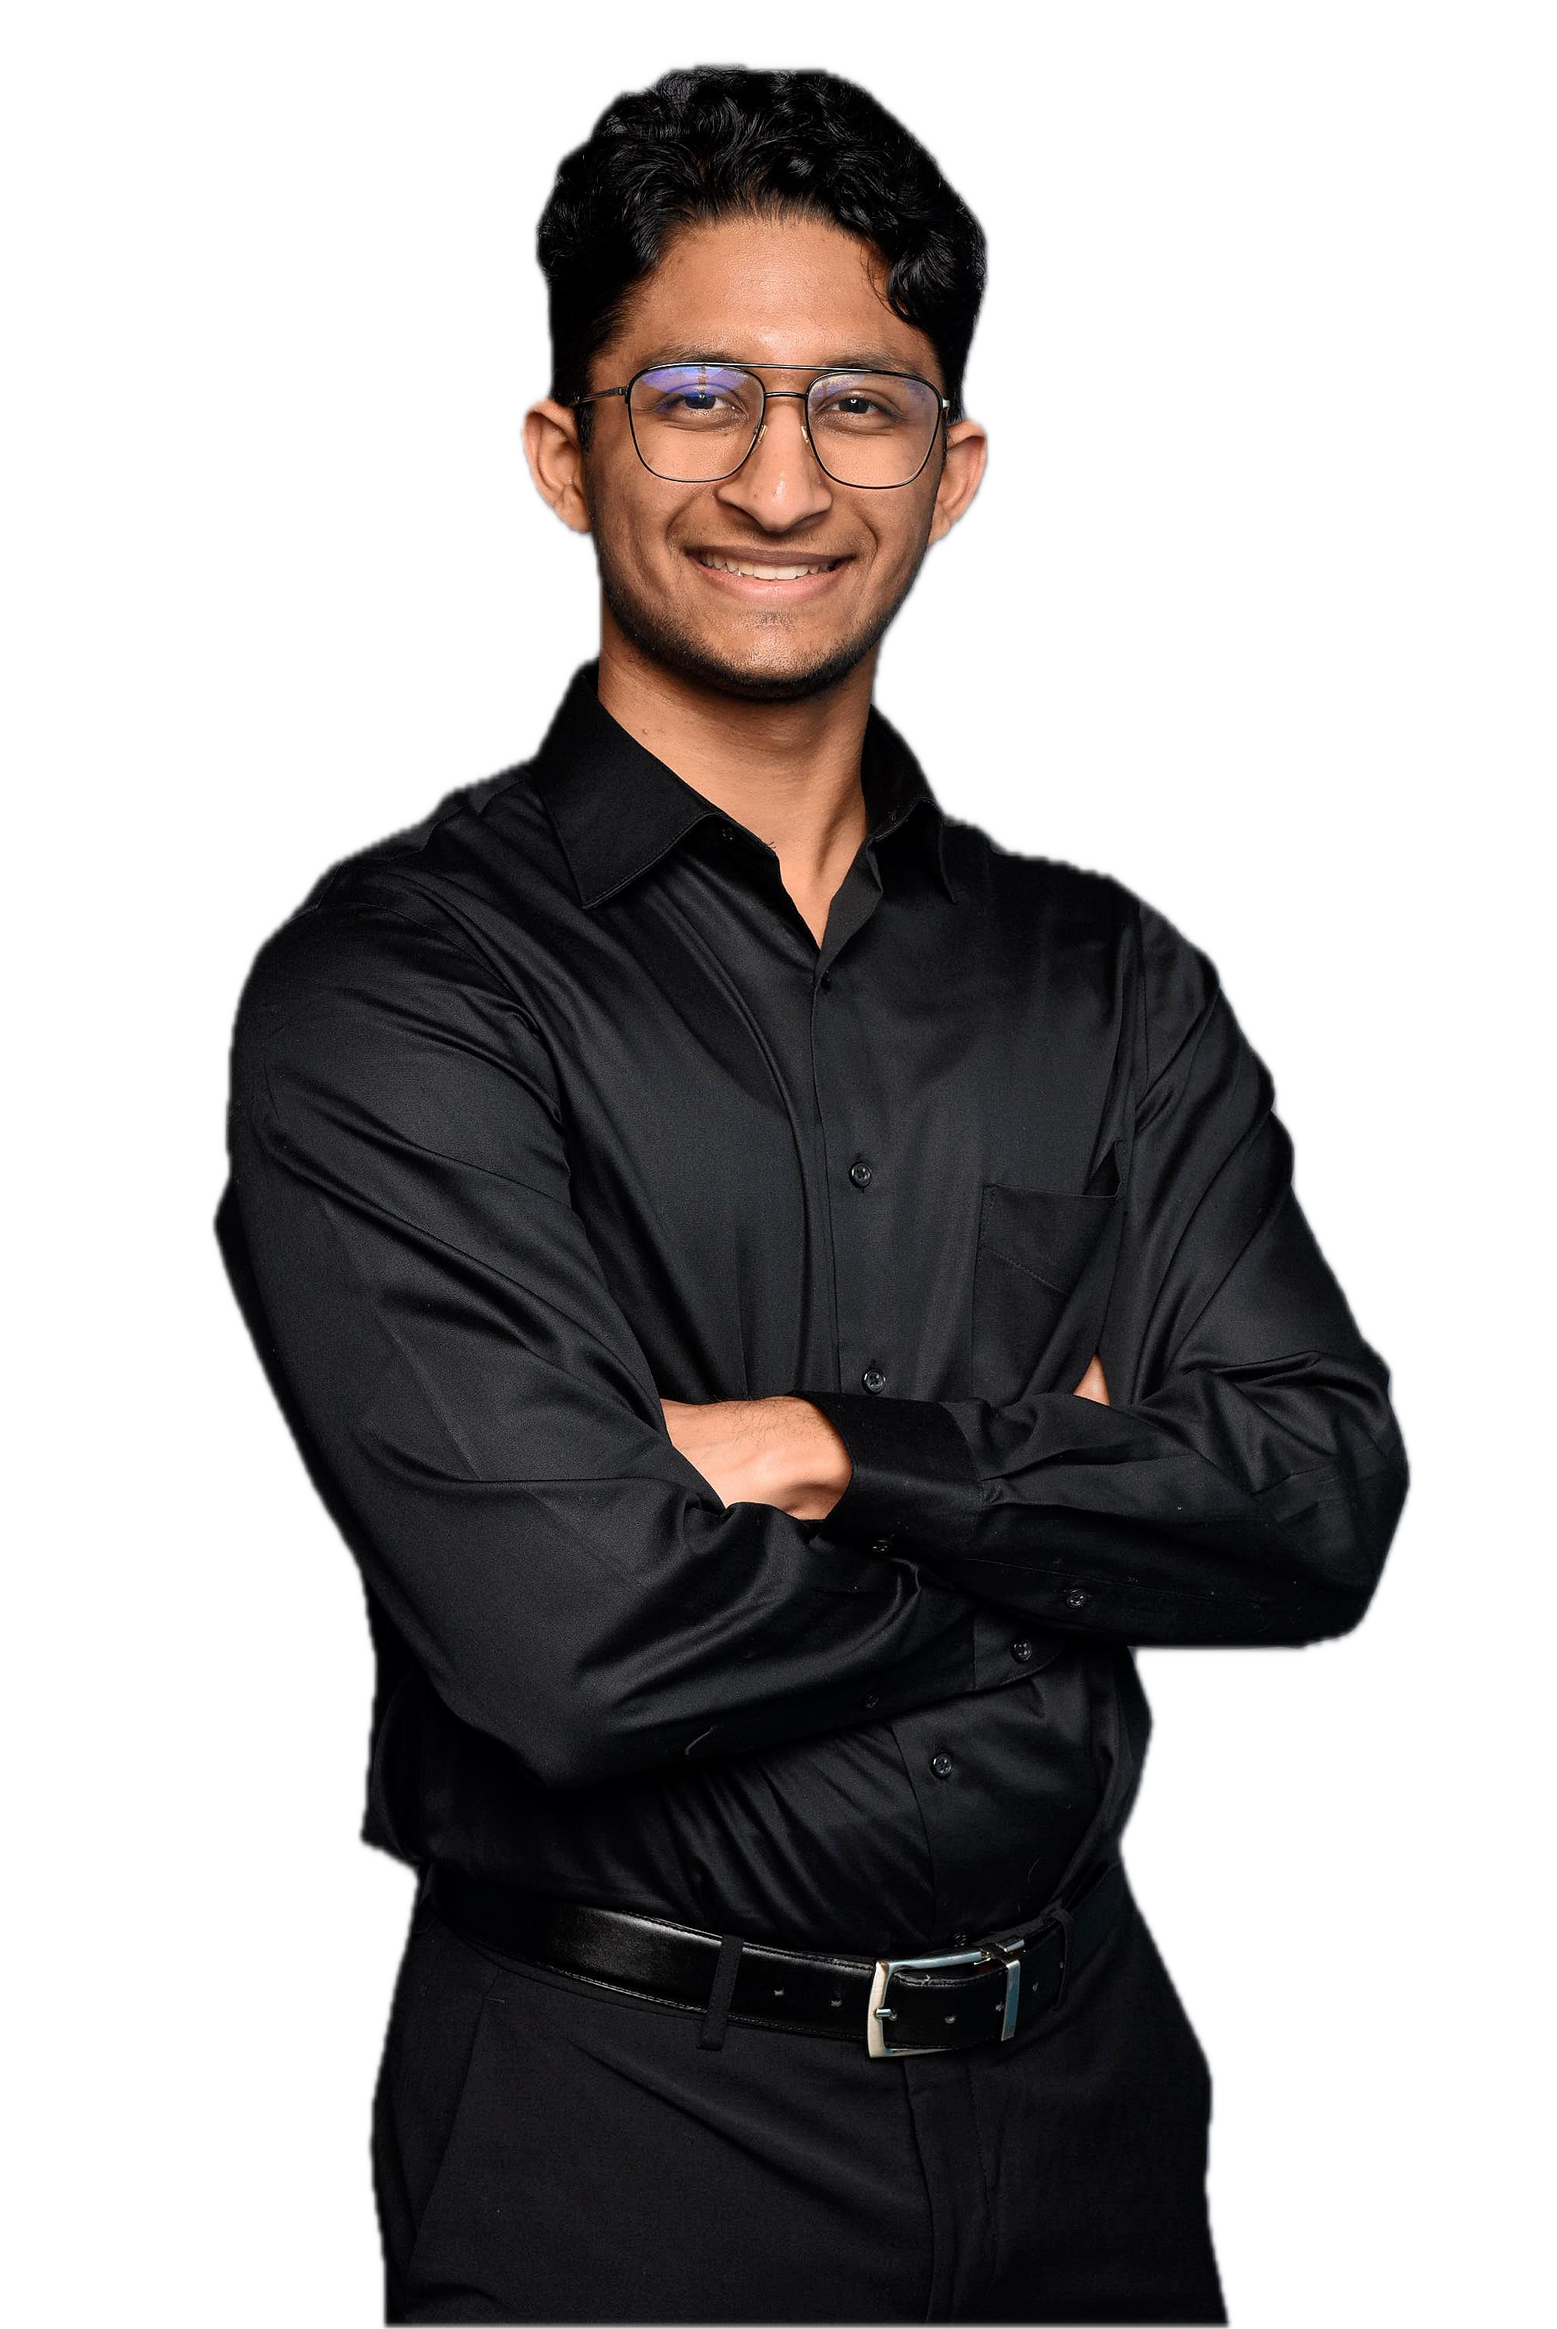
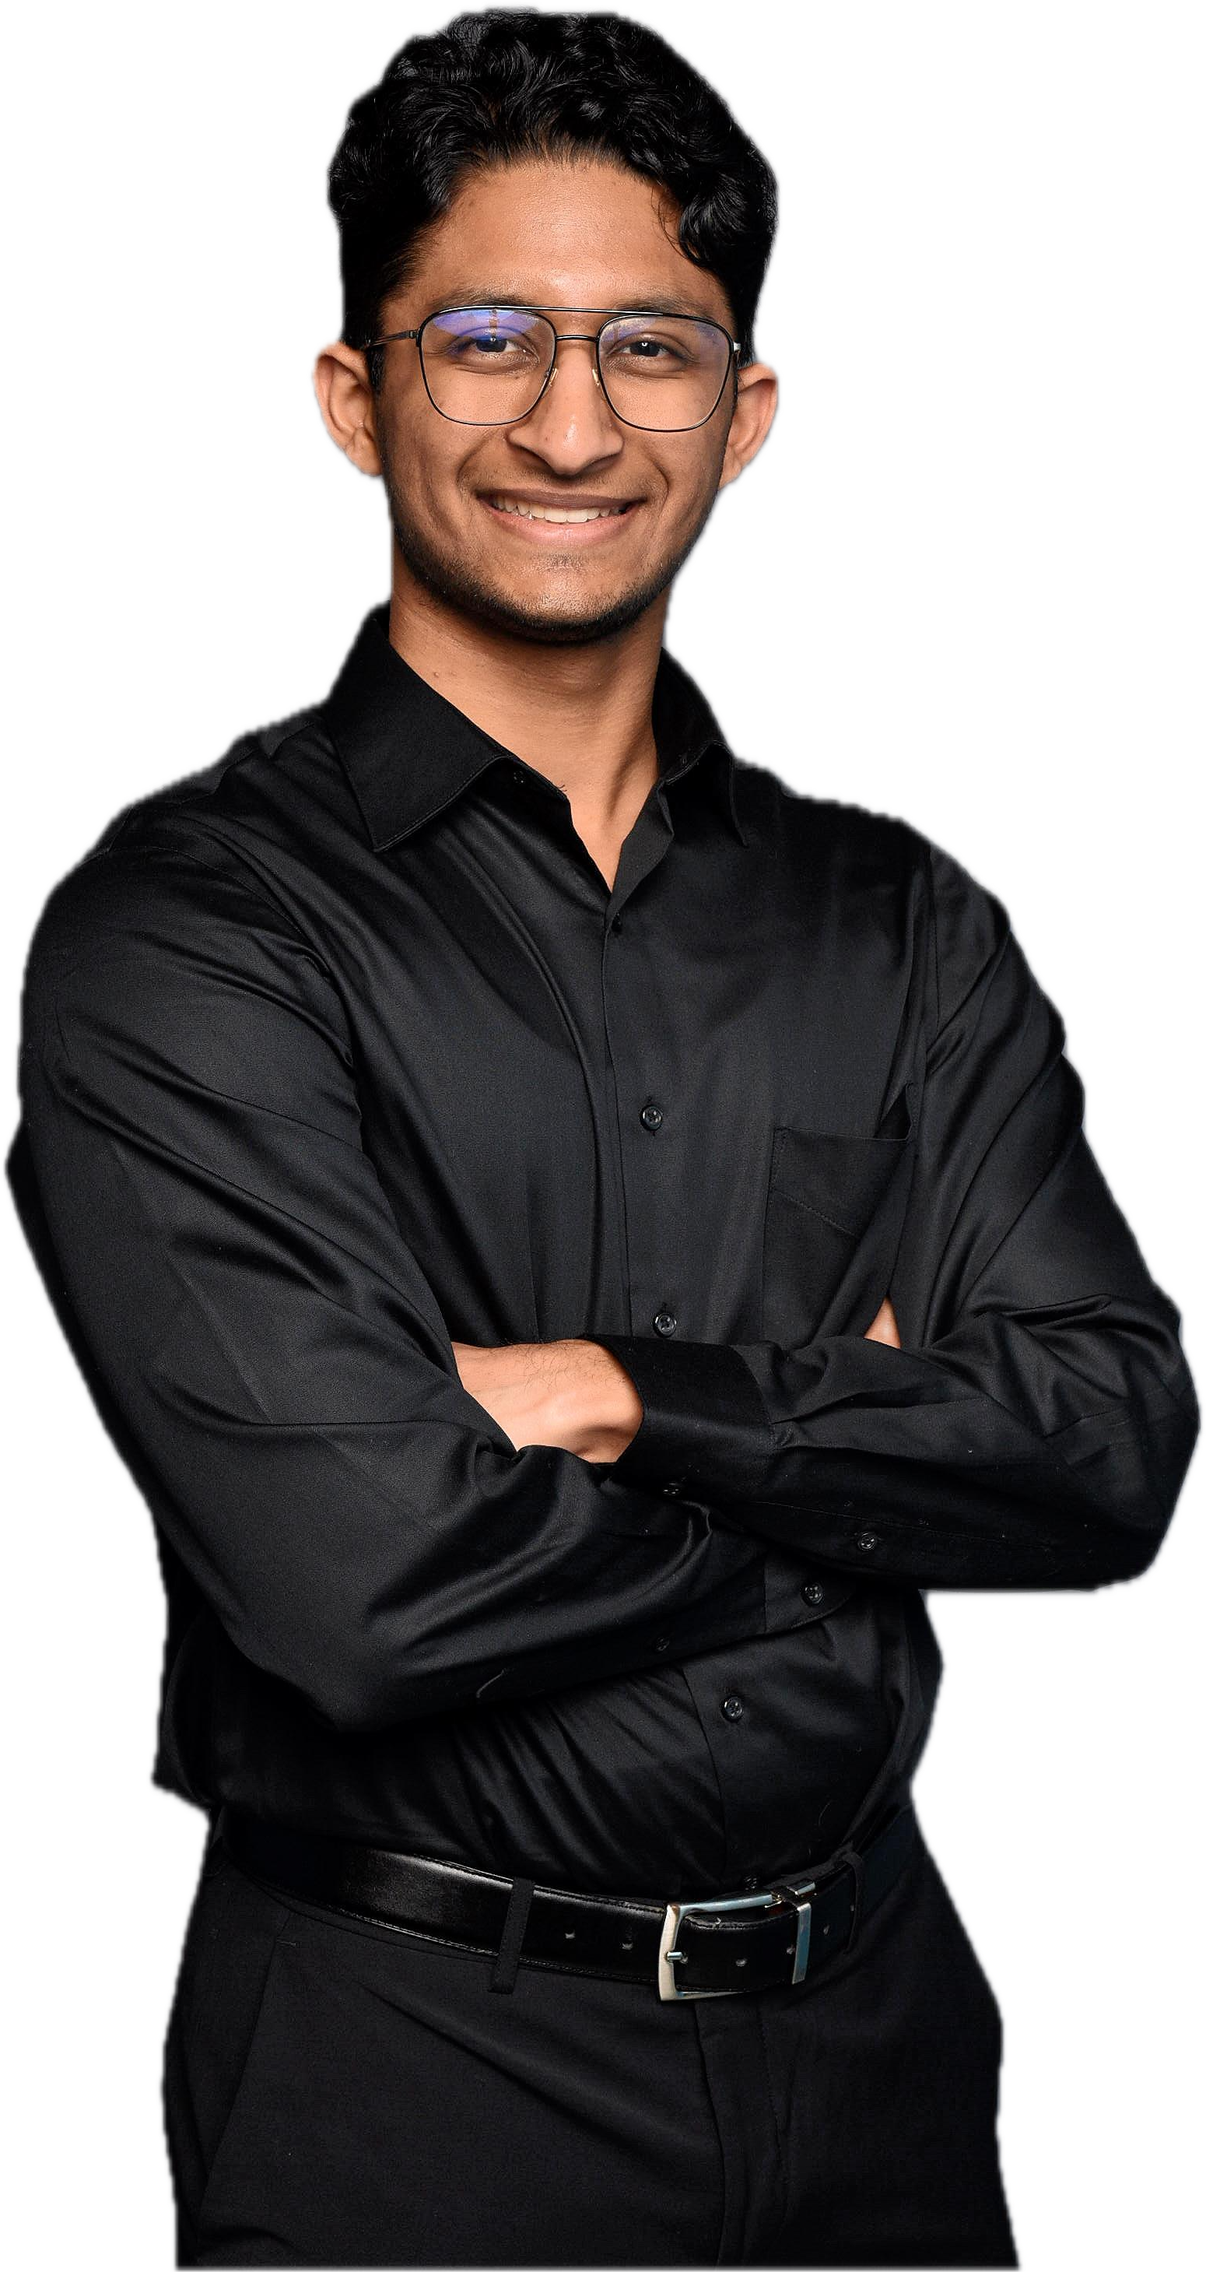
nicened up 320px hero look

diff --git a/src/app/page.tsx b/src/app/page.tsx
@@ -21,20 +21,20 @@ import { JSX } from "react";
 export default function Home(): JSX.Element {
   return (
     <>
-      <div className="flex h-screen max-h-[54.375rem] min-h-[35rem] flex-col overflow-hidden">
+      <div className="flex h-screen max-h-[37.5rem] min-h-[35rem] flex-col overflow-hidden">
         <Navbar />
         <div className="relative z-0 grow bg-gradient-to-b from-neutral-800 to-neutral-500">
-          <div className="absolute bottom-0 left-0 right-0 top-1 -z-10 mx-auto max-w-[30rem] origin-top translate-x-4 -scale-x-125 scale-y-125">
+          <div className="absolute left-0 right-0 -z-10 mx-auto max-w-[30rem] origin-top -scale-x-100 pt-4">
             <Image src={portrait} alt="Upanshu's portrait" priority />
           </div>
-          <div className="absolute inset-x-0 bottom-0 z-10 grid h-1/3 min-h-60 grid-cols-6 gap-3 p-6">
+          <div className="absolute inset-x-0 bottom-0 z-10 grid h-min min-h-60 grid-cols-6 justify-end gap-3 p-4">
             <Image
               src={customHeader}
               alt=""
               fill={true}
               className="-z-10 antialiased opacity-70"
             />
-            <div className="col-span-5 flex flex-col justify-evenly p-4 pt-14 font-raleway font-bold text-white shadow-white drop-shadow-lg">
+            <div className="col-span-5 flex flex-col justify-evenly px-4 pt-11 font-raleway font-bold text-white shadow-white drop-shadow-lg">
               <p className="text-xl">Hi, I am</p>
               <h1 className="text-4xl">Upanshu Parekh</h1>
               <h4 className="text-lg">Aspiring Software Engineer</h4>
@@ -135,7 +135,7 @@ export default function Home(): JSX.Element {
         </div>
         <div className="flex flex-col items-center gap-5 pt-10">
           <ResumeSectionH1 className="border-black">
-            EXTRACURRICULARS
+            EXTRA&shy;CURRICULARS
           </ResumeSectionH1>
           <Image
             src={motecIem}

diff --git a/src/app/_components/resume-section-h1.tsx b/src/app/_components/resume-section-h1.tsx
@@ -9,7 +9,7 @@ export default function ResumeSectionH1({
 }>): JSX.Element {
   return (
     <div className={`border-4 p-3 px-5 ${className}`}>
-      <h1 className="font-montserrat tracking-canyon text-center text-xl font-bold">
+      <h1 className="hyphens-auto text-center font-montserrat text-xl font-bold tracking-canyon">
         {children}
       </h1>
     </div>
